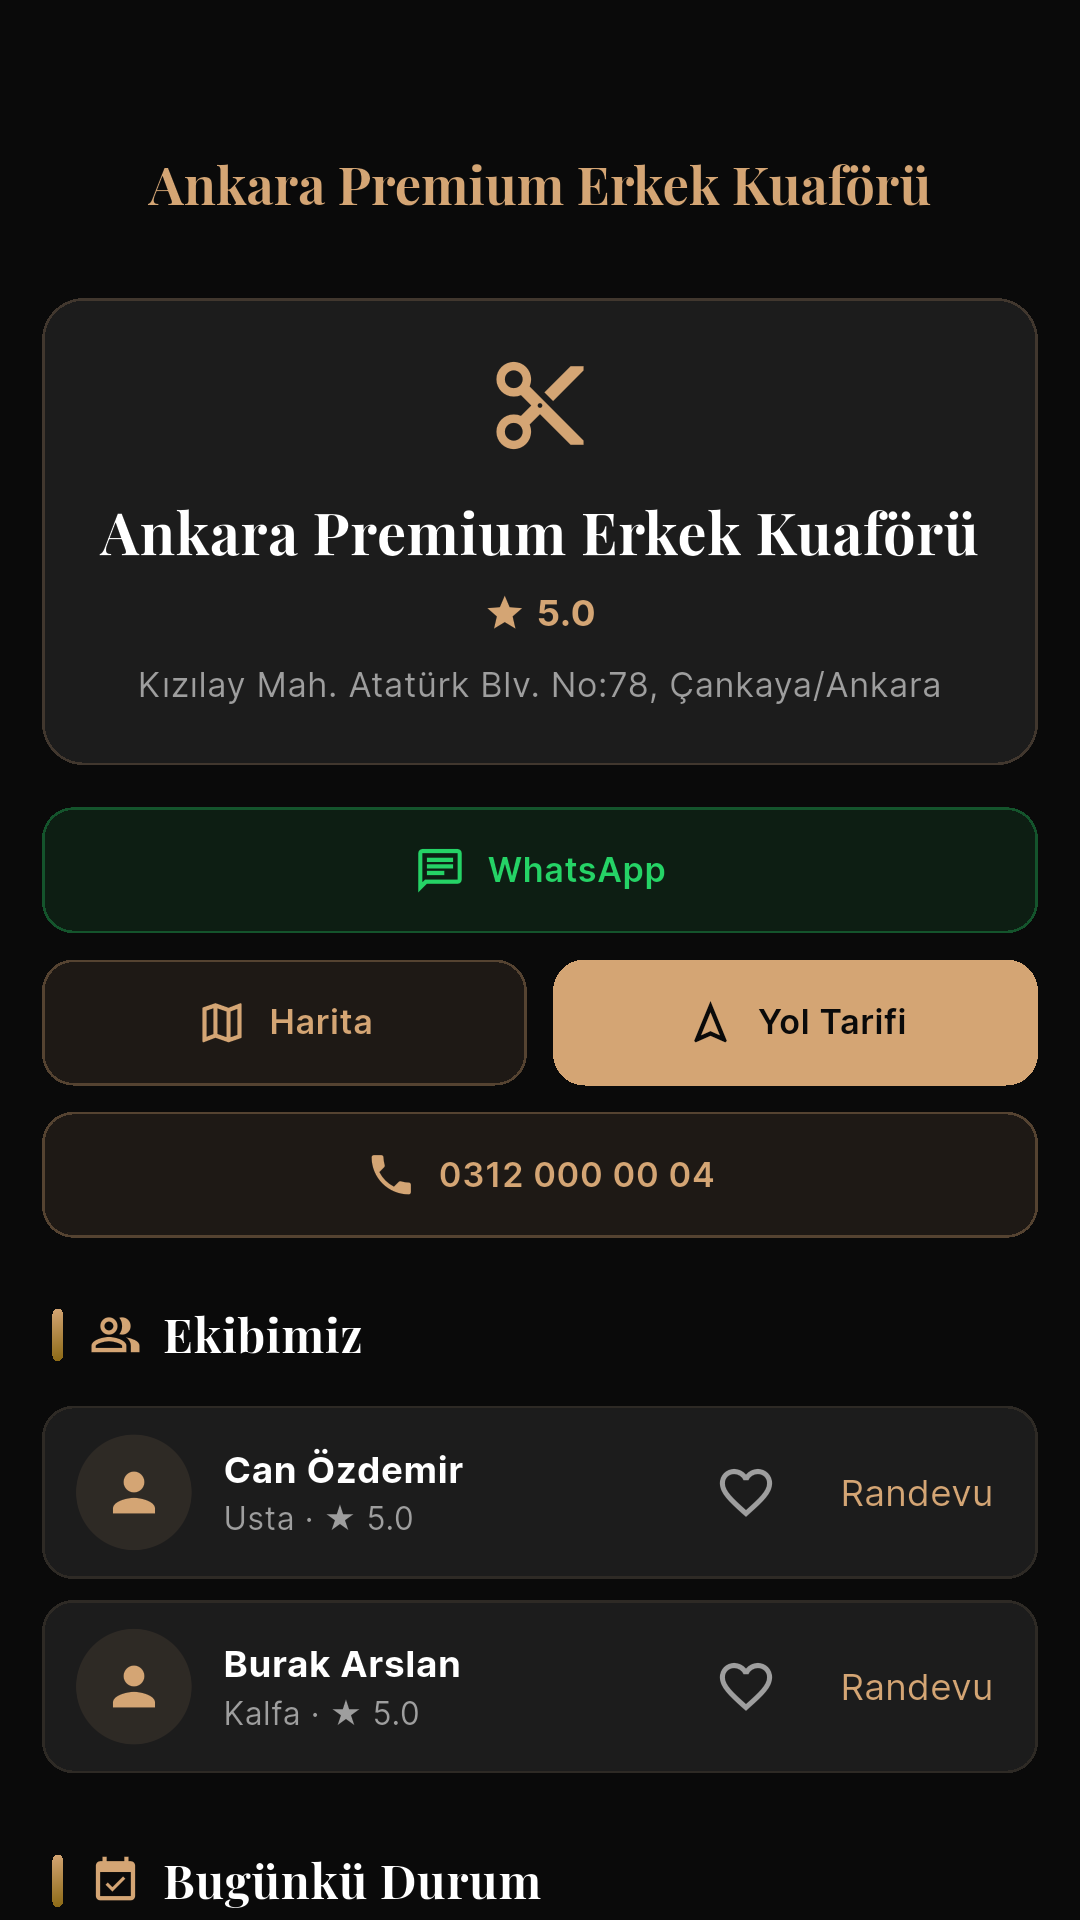
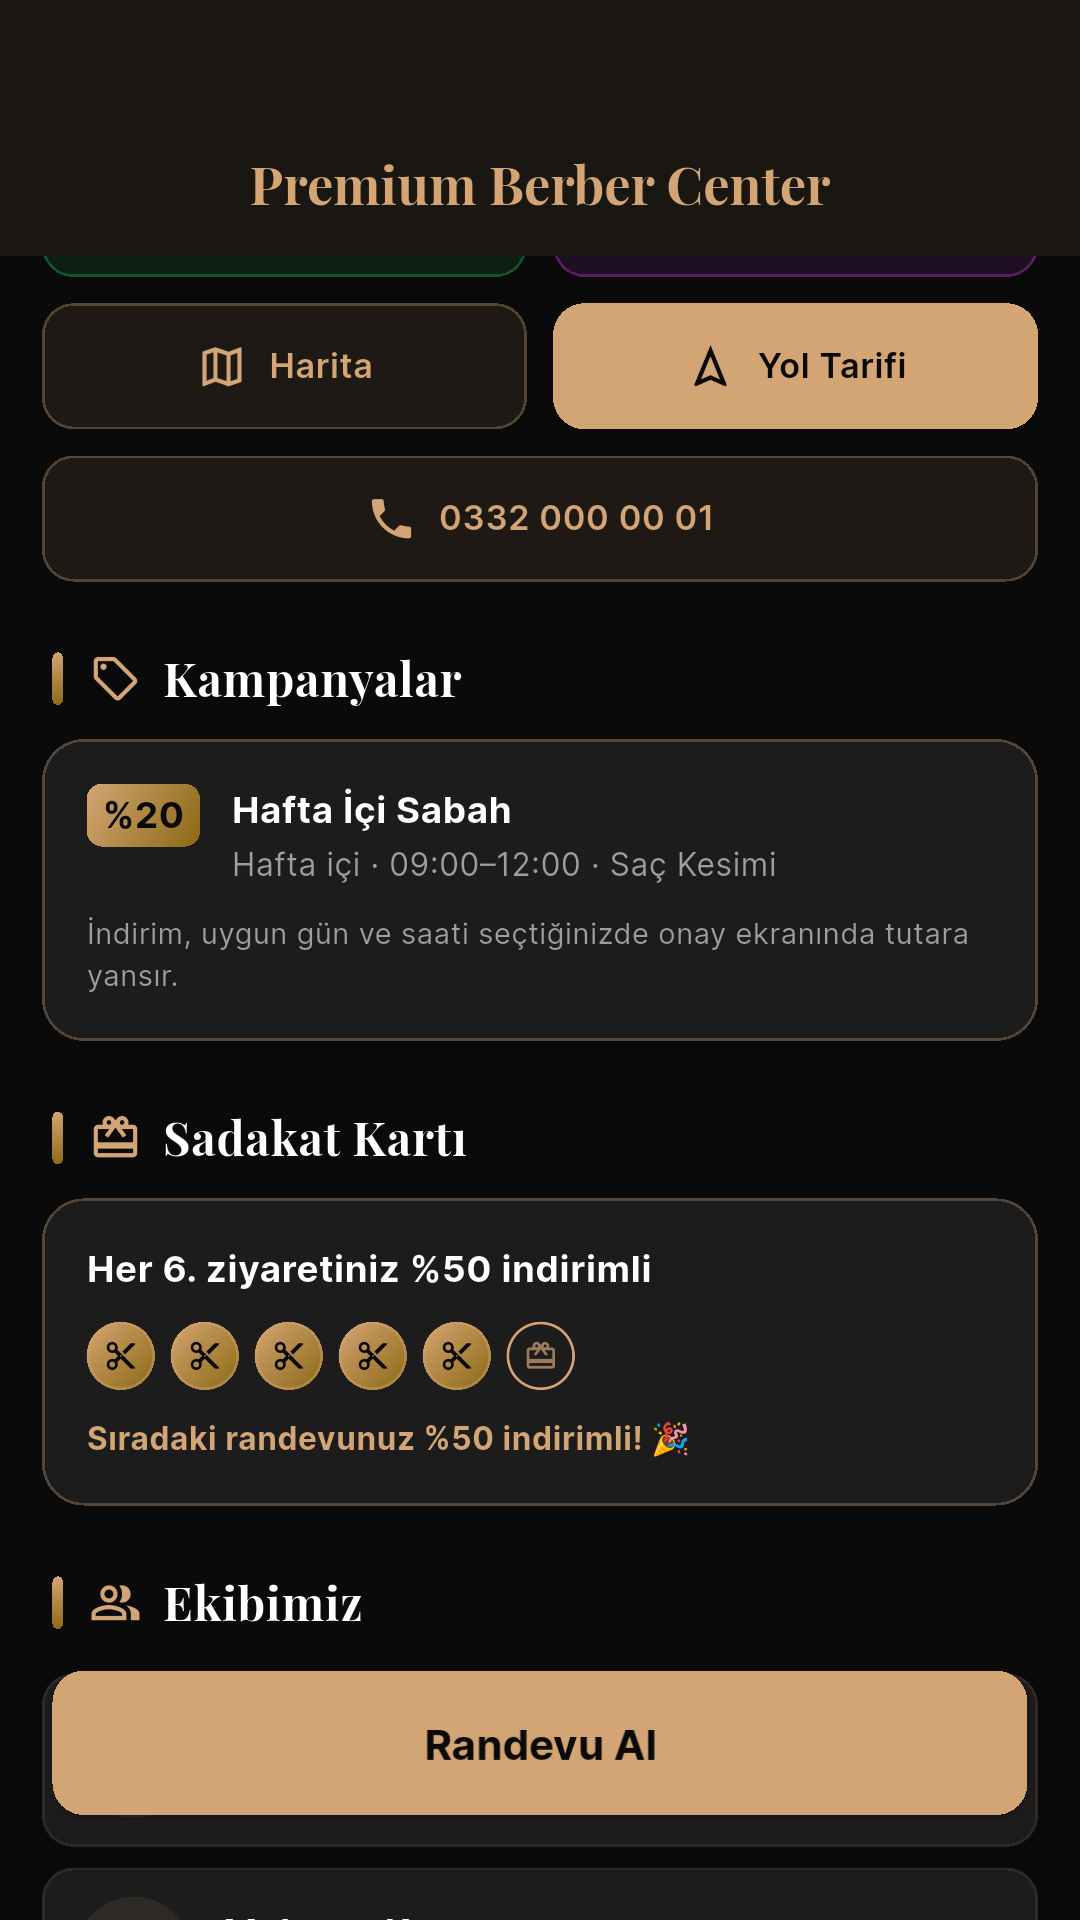
Cihazda gorsel inceleme bulgulari: takvim % isareti yalnizca alinabilir indirimli saat varsa, hizmette fiyat araligi, 'Hafta ici/sonu' kosul metni, gomulu olmayan yazi agirliklari kaldirildi (koruma testi), on-den karti ve takvim secici gorunumu
Magaza ekran goruntuleri yenilendi (8 adet: kampanya, indirimli saat, isletme gun takvimi dahil); gorsel inceleme araci
(integration_test/inceleme_test.dart, build/inceleme/); demo sadakat esigi 6 (Ahmet'in siradaki randevusu indirimli).

diff --git a/App/integration_test/inceleme_test.dart b/App/integration_test/inceleme_test.dart
@@ -1,0 +1,144 @@
+import 'dart:io';
+
+import 'package:flutter/material.dart';
+import 'package:flutter_test/flutter_test.dart';
+import 'package:integration_test/integration_test.dart';
+import 'package:table_calendar/table_calendar.dart';
+
+import 'package:berber_app_ui/data/api/randevu_api.dart';
+import 'package:berber_app_ui/data/api/salon_api.dart';
+import 'package:berber_app_ui/features/isletme/ekip/ekip_sekmesi.dart';
+import 'package:berber_app_ui/features/isletme/isletme_panel_screen.dart';
+import 'package:berber_app_ui/features/kesfet/salon_detay_screen.dart';
+import 'package:berber_app_ui/features/musteri/main_screen.dart';
+import 'package:berber_app_ui/features/randevu_al/widgets/saat_slot.dart';
+
+import 'yardimci.dart';
+
+/// Görsel inceleme: yeni ekranların gerçek cihazda nasıl göründüğü (demo verisiyle). Test değil, kontrol aracı;
+/// görüntüler build/inceleme/ altına yazılır.
+///
+///   docker compose -p premium-berber exec api python seed_demo.py
+///   flutter drive --driver=test_driver/inceleme.dart --target=integration_test/inceleme_test.dart \
+///     --dart-define=API_URL=http://10.0.2.2:8020
+void main() {
+  final binding = IntegrationTestWidgetsFlutterBinding.ensureInitialized();
+  var yuzeyCevrildi = false;
+  setUp(() => yuzeyCevrildi = false);
+
+  Future<void> cek(WidgetTester tester, String ad) async {
+    await tester.pump(const Duration(seconds: 2));
+    if (Platform.isAndroid && !yuzeyCevrildi) {
+      await binding.convertFlutterSurfaceToImage();
+      yuzeyCevrildi = true;
+    }
+    await tester.pump();
+    await binding.takeScreenshot(ad);
+  }
+
+  Future<void> kaydir(WidgetTester tester, double dy) async {
+    await tester.drag(find.byType(Scrollable).first, Offset(0, -dy));
+    await tester.pump(const Duration(milliseconds: 800));
+  }
+
+  testWidgets('müşteri: salon, hizmet, personel, saat, özet', (tester) async {
+    await hazirla('demo-musteri');
+    final salon = (await SalonApi.salonlar()).firstWhere((s) => s.ad == 'Premium Berber Center');
+
+    await uygulamayiAc(tester, const MainScreen(baslangicSekmesi: 2));
+    await bekle(tester, anahtarOneki('salon_'));
+    await cek(tester, 'm01_kesfet_rozet');
+
+    await uygulamayiAc(tester, SalonDetayScreen(salonId: salon.id));
+    await bekle(tester, find.text('Kampanyalar'));
+    await kaydir(tester, 250);
+    await cek(tester, 'm02_salon_kampanya_sadakat');
+
+    await dokun(tester, find.text('Randevu Al'));
+    await bekle(tester, anahtarOneki('hizmet_'));
+    await cek(tester, 'm03_hizmet_rozet_aralik');
+
+    await dokun(tester, find.textContaining('Saç Kesimi'));
+    await dokun(tester, find.text('İleri →'));
+    await bekle(tester, anahtarOneki('berber_toplam_'));
+    await cek(tester, 'm04_personel_fiyatlari');
+
+    await dokun(tester, find.text('Mehmet Kaya'));
+    await dokun(tester, find.text('İleri →'));
+    await tester.pump(const Duration(seconds: 2));
+    await cek(tester, 'm05_takvim_kampanya');
+
+    // İlk kampanyalı gün (hafta içi sabah 09–12)
+    final berber = (await SalonApi.berberler(salon.id)).firstWhere((b) => b.ad == 'Mehmet');
+    final kesim = (await SalonApi.hizmetler(salon.id)).firstWhere((h) => h.ad == 'Saç Kesimi');
+    final gunler = await RandevuApi.musaitTakvim(berberId: berber.id, hizmetIds: [kesim.id]);
+    final gun = DateTime.parse(gunler.firstWhere((g) => (g['indirim_yuzde'] as int) > 0)['tarih'] as String);
+    final takvim = find.byWidgetPredicate((w) => w is TableCalendar);
+    if (gun.month != DateTime.now().month) await dokun(tester, find.byIcon(Icons.chevron_right));
+    final hucreler = find.descendant(of: takvim, matching: find.text('${gun.day}'));
+    await dokun(tester, gun.day > 20 ? hucreler.last : hucreler.first);
+    await dokun(tester, find.text('İleri →'));
+    await bekle(tester, find.byType(SaatSlotWidget));
+    await cek(tester, 'm06_saat_indirim');
+
+    await dokun(tester, find.byWidgetPredicate((w) => w is SaatSlotWidget && w.durum == SlotDurumu.musait).first);
+    await dokun(tester, find.text('İleri →'));
+    await tester.pump(const Duration(seconds: 3));
+    await cek(tester, 'm07_ozet');
+  });
+
+  testWidgets('müşteri: randevularım, tekrar al, erteleme', (tester) async {
+    await hazirla('demo-musteri');
+    await uygulamayiAc(tester, const MainScreen(baslangicSekmesi: 1));
+    await dokun(tester, find.text('GEÇMİŞ'));
+    await tester.pump(const Duration(seconds: 2));
+    await cek(tester, 'm08_gecmis_tekrar_dugmesi');
+    await dokun(tester, find.text('Aynısını Tekrar Al'));
+    await bekle(tester, find.textContaining('randevusunu al'));
+    await cek(tester, 'm09_tekrar_sheet');
+    await tester.tapAt(const Offset(20, 60)); // sayfayı kapat
+    await tester.pump(const Duration(seconds: 1));
+
+    await dokun(tester, find.text('YAKLAŞANLAR'));
+    final yaklasan = (await RandevuApi.randevularim()).where((r) => r.yaklasan && r.ertelemeHakki > 0);
+    if (yaklasan.isNotEmpty) {
+      await dokun(tester, find.text('Ertele'));
+      await bekle(tester, find.byType(SaatSlotWidget));
+      await cek(tester, 'm10_erteleme');
+    }
+  });
+
+  testWidgets('işletme: takvim, kampanyalar, personel hizmetleri, önceden', (tester) async {
+    await hazirla('demo-isletme');
+    await uygulamayiAc(tester, const IsletmePanelScreen(salonAd: 'Premium Berber Center'));
+    await tester.pump(const Duration(seconds: 3));
+    await dokun(tester, find.byIcon(Icons.calendar_view_day_outlined));
+    await tester.pump(const Duration(seconds: 2));
+    await cek(tester, 'p01_gun_takvimi');
+
+    await dokun(tester, find.text('Ekip & Menü'));
+    await bekle(tester, find.text('Hizmet Menüsü'));
+    final ekipListesi = find.descendant(of: find.byType(EkipSekmesi), matching: find.byType(Scrollable)).first;
+    await tester.scrollUntilVisible(find.byKey(const ValueKey('sadakat_ayari')), 400, scrollable: ekipListesi);
+    await tester.pump(const Duration(seconds: 1));
+    await cek(tester, 'p02_kampanyalar');
+
+    await dokun(tester, find.byKey(const ValueKey('kampanya_ekle')));
+    await bekle(tester, find.byKey(const ValueKey('kampanya_ad')));
+    await cek(tester, 'p03_kampanya_formu');
+    await tester.tapAt(const Offset(20, 60));
+    await tester.pump(const Duration(seconds: 1));
+
+    await tester.scrollUntilVisible(find.text('Ali Uysal'), -400, scrollable: ekipListesi);
+    await dokun(tester, find.text('Ali Uysal'));
+    await dokun(tester, find.byKey(const ValueKey('personel_hizmetleri')));
+    await bekle(tester, anahtarOneki('personel_hizmet_'));
+    await cek(tester, 'p04_personel_hizmetleri');
+    await tester.tapAt(const Offset(20, 60));
+    await tester.pump(const Duration(seconds: 1));
+
+    await dokun(tester, find.text('Kapalı Günler'));
+    await bekle(tester, find.byKey(const ValueKey('onceden_karti')));
+    await cek(tester, 'p05_kapali_gunler_onceden');
+  });
+}

diff --git a/App/integration_test/ekran_goruntusu_test.dart b/App/integration_test/ekran_goruntusu_test.dart
@@ -1,12 +1,16 @@
 import 'dart:io';
 
+import 'package:flutter/material.dart';
 import 'package:flutter_test/flutter_test.dart';
 import 'package:integration_test/integration_test.dart';
+import 'package:table_calendar/table_calendar.dart';
 
+import 'package:berber_app_ui/data/api/randevu_api.dart';
 import 'package:berber_app_ui/data/api/salon_api.dart';
 import 'package:berber_app_ui/features/isletme/isletme_panel_screen.dart';
 import 'package:berber_app_ui/features/kesfet/salon_detay_screen.dart';
 import 'package:berber_app_ui/features/musteri/main_screen.dart';
+import 'package:berber_app_ui/features/randevu_al/widgets/saat_slot.dart';
 
 import 'yardimci.dart';
 
@@ -41,28 +45,53 @@ void main() {
     await bekle(tester, anahtarOneki('salon_'));
     await cek(tester, '02_kesfet');
 
-    final salon = (await SalonApi.salonlar()).first;
+    final salon = (await SalonApi.salonlar()).firstWhere((s) => s.ad == 'Premium Berber Center');
     await uygulamayiAc(tester, SalonDetayScreen(salonId: salon.id));
-    await bekle(tester, find.text('Randevu Al'));
+    await bekle(tester, find.text('Kampanyalar'));
+    await tester.drag(find.byType(Scrollable).first, const Offset(0, -250));
+    await tester.pump(const Duration(milliseconds: 800));
     await cek(tester, '03_salon_detay');
 
     await dokun(tester, find.text('Randevu Al'));
-    await dokun(tester, anahtarOneki('hizmet_'));
+    await bekle(tester, anahtarOneki('hizmet_'));
+    await dokun(tester, find.textContaining('Saç Kesimi'));
+    await tester.drag(find.byType(Scrollable).first, const Offset(0, 400)); // liste başa
+    await tester.pump(const Duration(milliseconds: 600));
     await cek(tester, '04_hizmet_secimi');
+
+    // Kampanyalı ilk gün ve saat (demo: hafta içi 09:00–12:00 saç kesimi %20)
+    await dokun(tester, find.text('İleri →'));
+    final berber = (await SalonApi.berberler(salon.id)).firstWhere((b) => b.ad == 'Mehmet');
+    await dokun(tester, find.byKey(ValueKey('berber_${berber.id}')));
+    await dokun(tester, find.text('İleri →'));
+    final kesim = (await SalonApi.hizmetler(salon.id)).firstWhere((h) => h.ad == 'Saç Kesimi');
+    final gunler = await RandevuApi.musaitTakvim(berberId: berber.id, hizmetIds: [kesim.id]);
+    final gun = DateTime.parse(gunler.firstWhere((g) => (g['indirim_yuzde'] as int) > 0)['tarih'] as String);
+    final takvim = find.byWidgetPredicate((w) => w is TableCalendar);
+    await bekle(tester, takvim);
+    if (gun.month != DateTime.now().month) await dokun(tester, find.byIcon(Icons.chevron_right));
+    final hucreler = find.descendant(of: takvim, matching: find.text('${gun.day}'));
+    await dokun(tester, gun.day > 20 ? hucreler.last : hucreler.first);
+    await dokun(tester, find.text('İleri →'));
+    await bekle(tester, find.byWidgetPredicate((w) => w is SaatSlotWidget && w.indirimYuzde > 0));
+    await dokun(tester, find.byWidgetPredicate((w) => w is SaatSlotWidget && w.indirimYuzde > 0).at(1));
+    await cek(tester, '05_saat_secimi');
 
     await uygulamayiAc(tester, const MainScreen(baslangicSekmesi: 1));
     await tester.pump(const Duration(seconds: 3));
-    await cek(tester, '05_randevularim');
+    await cek(tester, '06_randevularim');
   });
 
   testWidgets('işletme ekranları', (tester) async {
     await hazirla('demo-isletme');
     await uygulamayiAc(tester, const IsletmePanelScreen(salonAd: 'Premium Berber Center'));
     await tester.pump(const Duration(seconds: 3));
-    await cek(tester, '06_isletme_akis');
+    await cek(tester, '07_isletme_akis');
 
-    await dokun(tester, find.text('Rapor'));
-    await tester.pump(const Duration(seconds: 3));
-    await cek(tester, '07_isletme_rapor');
+    // Gün takvimi: personel sütunları; görüntü için sabah saatlerine kaydırılır (takvim "şimdi"ye açılır)
+    await dokun(tester, find.byIcon(Icons.calendar_view_day_outlined));
+    await tester.pump(const Duration(seconds: 2));
+    await tester.dragFrom(tester.getCenter(find.byType(Scaffold).first), const Offset(0, 3000));
+    await cek(tester, '08_isletme_takvim');
   });
 }

diff --git a/App/test/birim_test.dart b/App/test/birim_test.dart
@@ -9,6 +9,8 @@ import 'package:berber_app_ui/core/utils/bicim.dart';
 import 'package:berber_app_ui/features/musteri/randevularim/widgets/randevu_karti.dart';
 import 'package:berber_app_ui/features/randevu_al/widgets/saat_slot.dart';
 import 'package:berber_app_ui/features/randevu_al/widgets/takvim_bilesenleri.dart';
+import 'dart:io';
+
 import 'package:flutter/material.dart';
 import 'package:flutter_test/flutter_test.dart';
 
@@ -183,6 +185,19 @@ void main() {
       expect((s.sadakatKarti!.ziyaret, s.sadakatKarti!.siradakiIndirimli), (9, true));
       expect(Salon.fromJson({'id': 1, 'ad': 'S'}).sadakatKarti, isNull);
     });
+  });
+
+  test('Yalnızca uygulamaya gömülü yazı tipi ağırlıkları kullanılır (internetten indirme kapalı)', () {
+    // assets/google_fonts: Inter 400/500/600/700, Playfair Display 400/600/700. Başka ağırlık üretimde eksik
+    // yazı tipi hatası verir (main.dart: GoogleFonts.config.allowRuntimeFetching = false).
+    const izinli = {'w400', 'w500', 'w600', 'w700', 'bold', 'normal'};
+    final kullanilan = <String>{};
+    for (final f in Directory('lib').listSync(recursive: true).whereType<File>().where((f) => f.path.endsWith('.dart'))) {
+      for (final m in RegExp(r'FontWeight\.(w\d00|bold|normal)').allMatches(f.readAsStringSync())) {
+        if (!izinli.contains(m.group(1))) kullanilan.add('${f.path}: ${m.group(0)}');
+      }
+    }
+    expect(kullanilan, isEmpty);
   });
 
   test('telefonBicimli', () {

diff --git a/App/lib/features/randevu_al/adimlar/adim1_hizmet.dart b/App/lib/features/randevu_al/adimlar/adim1_hizmet.dart
@@ -138,15 +138,13 @@ class _Adim1HizmetState extends State<Adim1Hizmet> {
                             ],
                           ),
                         ),
-                        // Fiyat (personele göre değişiyorsa "300 ₺'den")
-                        Column(crossAxisAlignment: CrossAxisAlignment.end, children: [
-                          Text('${h.fiyatMin.toStringAsFixed(0)} ₺',
-                              style: GoogleFonts.playfairDisplay(
-                                  color: AppTheme.gold, fontSize: 18, fontWeight: FontWeight.bold)),
-                          if (h.fiyatDegisken)
-                            Text("'den başlayan",
-                                style: GoogleFonts.inter(color: AppTheme.textSecondary, fontSize: 10)),
-                        ]),
+                        // Fiyat (personele göre değişiyorsa aralık: "300–350 ₺")
+                        Text(
+                            h.fiyatDegisken
+                                ? '${h.fiyatMin.toStringAsFixed(0)}–${h.fiyatMax.toStringAsFixed(0)} ₺'
+                                : '${h.fiyat.toStringAsFixed(0)} ₺',
+                            style: GoogleFonts.playfairDisplay(
+                                color: AppTheme.gold, fontSize: h.fiyatDegisken ? 16 : 18, fontWeight: FontWeight.bold)),
                       ],
                     ),
                   ),

diff --git a/App/test/duzen_test.dart b/App/test/duzen_test.dart
@@ -1,6 +1,7 @@
 import 'package:flutter/material.dart';
 import 'package:flutter_localizations/flutter_localizations.dart';
 import 'package:flutter_test/flutter_test.dart';
+import 'package:google_fonts/google_fonts.dart';
 import 'package:intl/date_symbol_data_local.dart';
 
 import 'package:berber_app_ui/core/theme/app_theme.dart';
@@ -32,7 +33,12 @@ import 'package:berber_app_ui/features/randevu_al/widgets/takvim_bilesenleri.dar
 /// yazı ölçeği (1,3×, bkz. main.dart) ile ekran/kartlar çizilir; "RenderFlex overflowed" hatası testi düşürür.
 /// Veriler gerçek API yanıtlarından alınıp metinler bilerek uzatıldı.
 void main() {
-  setUpAll(() => initializeDateFormatting('tr_TR', null));
+  setUpAll(() async {
+    await initializeDateFormatting('tr_TR', null);
+    // Uygulamadaki gibi: yalnızca gömülü yazı tipleri (assets/google_fonts). Gömülü olmayan bir ağırlık
+    // kullanılırsa google_fonts hata verir ve test düşer.
+    GoogleFonts.config.allowRuntimeFetching = false;
+  });
 
   Future<void> ciz(WidgetTester tester, Widget ekran, {double olcek = 1.3, double genislik = 360}) async {
     tester.view.devicePixelRatio = 3;

diff --git a/App/lib/features/isletme/akis/akis_sekmesi.dart b/App/lib/features/isletme/akis/akis_sekmesi.dart
@@ -214,7 +214,13 @@ class _AkisSekmesiState extends State<AkisSekmesi> {
                 SegmentedButton<bool>(
                   key: const ValueKey('akis_gorunum'),
                   showSelectedIcon: false,
-                  style: const ButtonStyle(visualDensity: VisualDensity.compact),
+                  style: SegmentedButton.styleFrom(
+                visualDensity: VisualDensity.compact,
+                selectedBackgroundColor: AppTheme.gold,
+                selectedForegroundColor: AppTheme.black,
+                foregroundColor: AppTheme.gold,
+                side: BorderSide(color: AppTheme.gold.withValues(alpha: 0.5)),
+              ),
                   segments: const [
                     ButtonSegment(value: false, icon: Icon(Icons.view_agenda_outlined, size: 18), tooltip: 'Liste'),
                     ButtonSegment(

diff --git a/App/integration_test/yardimci.dart b/App/integration_test/yardimci.dart
@@ -1,6 +1,7 @@
 import 'package:firebase_core/firebase_core.dart';
 import 'package:flutter/material.dart';
 import 'package:flutter_test/flutter_test.dart';
+import 'package:google_fonts/google_fonts.dart';
 import 'package:intl/date_symbol_data_local.dart';
 
 import 'package:berber_app_ui/data/api/api_client.dart';
@@ -10,6 +11,7 @@ import 'package:berber_app_ui/main.dart';
 /// Kimlik: Firebase hesabı açılmaz; istekler `dev:<uid>` jetonu taşır.
 Future<void> hazirla(String uid) async {
   ApiClient.testJetonu = () async => 'dev:$uid';
+  GoogleFonts.config.allowRuntimeFetching = false; // uygulamadaki gibi (main.dart): yalnızca gömülü yazı tipleri
   if (Firebase.apps.isEmpty) await Firebase.initializeApp();
   await initializeDateFormatting('tr_TR', null);
 }

diff --git a/App/lib/features/randevu_al/widgets/takvim_bilesenleri.dart b/App/lib/features/randevu_al/widgets/takvim_bilesenleri.dart
@@ -55,7 +55,7 @@ class TakvimLejanti extends StatelessWidget {
       _Oge(renk: Colors.white.withValues(alpha: 0.18), etiket: 'Kapalı'),
       if (kampanya)
         Row(mainAxisSize: MainAxisSize.min, children: [
-          Text('%', style: GoogleFonts.inter(color: AppTheme.gold, fontSize: 12, fontWeight: FontWeight.w900)),
+          Text('%', style: GoogleFonts.inter(color: AppTheme.gold, fontSize: 12, fontWeight: FontWeight.bold)),
           const SizedBox(width: 6),
           Text('Kampanyalı', style: GoogleFonts.inter(color: AppTheme.textSecondary, fontSize: 11)),
         ]),

diff --git a/App/test_driver/inceleme.dart b/App/test_driver/inceleme.dart
@@ -1,0 +1,14 @@
+import 'dart:io';
+
+import 'package:integration_test/integration_test_driver_extended.dart';
+
+/// Görsel inceleme sürücüsü: integration_test/inceleme_test.dart ekran görüntülerini build/inceleme/ altına yazar
+/// (mağaza görüntülerinden ayrı; git'e girmez).
+Future<void> main() => integrationDriver(
+      onScreenshot: (ad, baytlar, [_]) async {
+        final dosya = File('build/inceleme/$ad.png');
+        await dosya.create(recursive: true);
+        await dosya.writeAsBytes(baytlar);
+        return true;
+      },
+    );

diff --git a/App/lib/features/isletme/kapali_gunler/widgets/onceden_karti.dart b/App/lib/features/isletme/kapali_gunler/widgets/onceden_karti.dart
@@ -91,7 +91,8 @@ class _OncedenKartiState extends State<OncedenKarti> {
             style: GoogleFonts.inter(color: AppTheme.textSecondary, fontSize: 12)),
         trailing: _kaydediliyor
             ? const SizedBox(width: 24, height: 24, child: CircularProgressIndicator(strokeWidth: 2, color: AppTheme.gold))
-            : const Icon(Icons.edit_outlined, color: AppTheme.gold),
+            : IconButton(
+                tooltip: 'Düzenle', icon: const Icon(Icons.edit_outlined, color: AppTheme.gold), onPressed: _sec),
       ),
     );
   }

diff --git a/App/lib/features/kesfet/widgets/kampanya_bilesenleri.dart b/App/lib/features/kesfet/widgets/kampanya_bilesenleri.dart
@@ -18,7 +18,7 @@ class IndirimRozeti extends StatelessWidget {
       padding: const EdgeInsets.symmetric(horizontal: 6, vertical: 2),
       decoration: BoxDecoration(gradient: AppTheme.goldGradient, borderRadius: BorderRadius.circular(6)),
       child: Text('%$yuzde${onEk ?? ''}',
-          style: GoogleFonts.inter(color: AppTheme.black, fontSize: yaziBoyu, fontWeight: FontWeight.w800)),
+          style: GoogleFonts.inter(color: AppTheme.black, fontSize: yaziBoyu, fontWeight: FontWeight.bold)),
     );
   }
 }

diff --git a/App/lib/features/randevu_al/adimlar/adim3_tarih.dart b/App/lib/features/randevu_al/adimlar/adim3_tarih.dart
@@ -208,7 +208,7 @@ class _Adim3TarihState extends State<Adim3Tarih> {
                           top: 2,
                           right: 4,
                           child: Text('%',
-                              style: GoogleFonts.inter(color: AppTheme.gold, fontSize: 10, fontWeight: FontWeight.w900)),
+                              style: GoogleFonts.inter(color: AppTheme.gold, fontSize: 10, fontWeight: FontWeight.bold)),
                         ),
                     ]),
                   );
